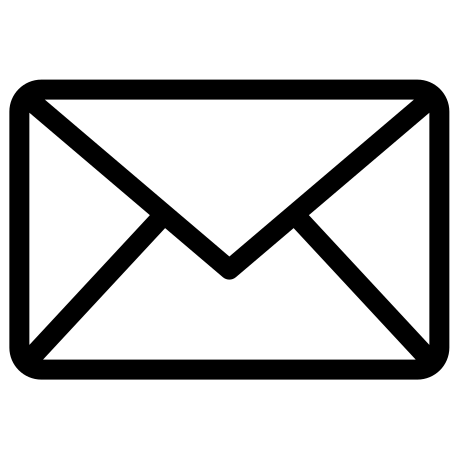
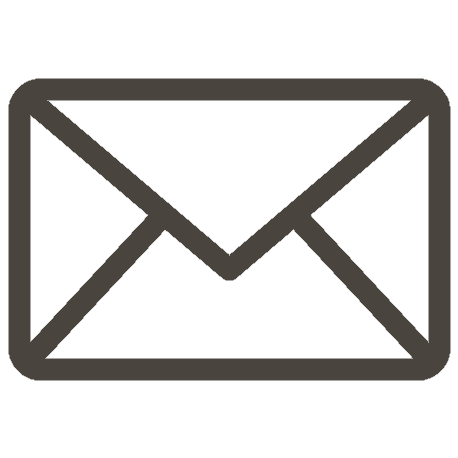
se modificó toda la paleta de colores desde todos los archivos css

Changed region(s): [[0.0, 0.1528, 1.0, 0.8559]]

diff --git a/src/app/home/home.css b/src/app/home/home.css
@@ -3,6 +3,7 @@
   align-items: flex-start;
   gap: 20px;
   width: 100%;
+  color: #4A443F;
 }
 
 .carrousel-container {
@@ -11,7 +12,7 @@
   justify-content: center;
   gap: 20px;
   width: 30%;
-  background-color: rgb(4, 114, 4);
+  background-color: #EAE2D6;
   padding: 2em;
   border-radius: 2em;
   margin-top: 1em;
@@ -23,7 +24,7 @@
   flex-grow: 1;
   margin-top: 1em;
   padding: 2em;
-  background-color: rgb(4, 114, 4);
+  background-color: #EAE2D6;
   border-radius: 2em;
   padding-top: 1em;
   margin-right: 1em;
@@ -36,9 +37,7 @@
   display: flex;
   justify-content: center;
   align-items: center;
-  border-radius: 0.5em;
-  border: 1em;
-  border-color: black;
+  border-radius: 1em;
 }
 
 .img ::ng-deep img {
@@ -55,7 +54,7 @@ button {
   cursor: pointer;
   padding: 10px;
   transition: transform 0.2s;
-  color: black;
+  color: #4A443F;
 }
 
 button:hover {

diff --git a/src/app/nav/nav.css b/src/app/nav/nav.css
@@ -1,22 +1,22 @@
 a {
     margin: 0.5em;
-    background-color: black;
+    background-color: #D7C9B8;
     padding: 0.7em;
     border-radius: 1em;
-    color: cadetblue;
+    color: #4A443F;
     font-size: 1.5em;
     transition: 0.3s;
     text-decoration: none;
 }
 a:hover {
-    background-color: rgb(66, 21, 21);
+    background-color: #c2ae95;
     padding: 1em;
     margin: 0.2em;
     transition: 0.3s;
 }
 .nav {
     text-align: center;
-    background-color: cadetblue;
+    background-color: #EAE2D6;
     padding-top: 2em;
     padding-bottom: 2em;
     margin-left: 27em;

diff --git a/src/styles.css b/src/styles.css
@@ -1,13 +1,13 @@
 h1 {
     font-size: 4em;
     text-align: center;
-    color: black;
+    color: #4A443F;
     font-size: 6em;
     margin-bottom: 0em;
 }
 
 body {
-    background-color: black;
+    background-color: #F9F7F2;
     font-family: monospace;
 }
 
@@ -26,14 +26,19 @@ ul {
 }
 
 a {
-    color: cadetblue;
+    color: #B07D62;
+}
+
+a:hover {
+    color: #96654b;
 }
 
 .container {
   margin-top: 1.2em;
   padding: 2em;
-  background-color: rgb(4, 114, 4);
+  background-color: #EAE2D6;
   border-radius: 2em;
   padding-top: 1em;
   margin: 1em;
+  color: #4A443F;
 }

diff --git a/src/app/about/about.css b/src/app/about/about.css
@@ -3,6 +3,7 @@
   flex-direction: row;
   gap: 20px;
   align-items: flex-start;
+  color: #4A443F;
 }
 
 .left-container {
@@ -10,7 +11,7 @@
   justify-content: center;
   gap: 20px;
   width: 40%;
-  background-color: rgb(4, 114, 4);
+  background-color: #EAE2D6;
   padding: 2em;
   border-radius: 2em;
   margin-top: 1em;
@@ -23,7 +24,7 @@
   flex-grow: 1;
   margin-top: 1.2em;
   padding: 2em;
-  background-color: rgb(4, 114, 4);
+  background-color: #EAE2D6;
   border-radius: 2em;
   padding-top: 1em;
   margin-right: 1em;

diff --git a/src/app/contact/contact.css b/src/app/contact/contact.css
@@ -3,6 +3,7 @@
   align-items: flex-start;
   gap: 20px;
   width: 100%;
+  color: #4A443F;
 }
 
 .left-container {
@@ -10,7 +11,7 @@
   justify-content: center;
   gap: 20px;
   width: 22%;
-  background-color: rgb(4, 114, 4);
+  background-color: #EAE2D6;
   padding: 0.5em;
   border-radius: 2em;
   margin-top: 1em;
@@ -22,7 +23,7 @@
 .right-container {
   margin-top: 1em;
   padding: 0.5em;
-  background-color: rgb(4, 114, 4);
+  background-color: #EAE2D6;
   border-radius: 2em;
   width: 22%;
   height: auto;

diff --git a/src/app/footer/footer.css b/src/app/footer/footer.css
@@ -1,7 +1,7 @@
 div {
     text-align: center;
-    font-size: large;
-    background-color:cadetblue;
+    font-size: medium;
+    background-color:#D7C9B8;
     padding: 1em;
     margin: 1em;
     border-radius: 1em;

diff --git a/src/app/header/header.css b/src/app/header/header.css
@@ -1,5 +1,5 @@
 h1 {
-    background-color: rgb(161, 5, 5);
+    background-color: #D7C9B8;
     margin-top: 0.2em;
     margin-bottom: 0.2em;
     margin-left: 4em;
